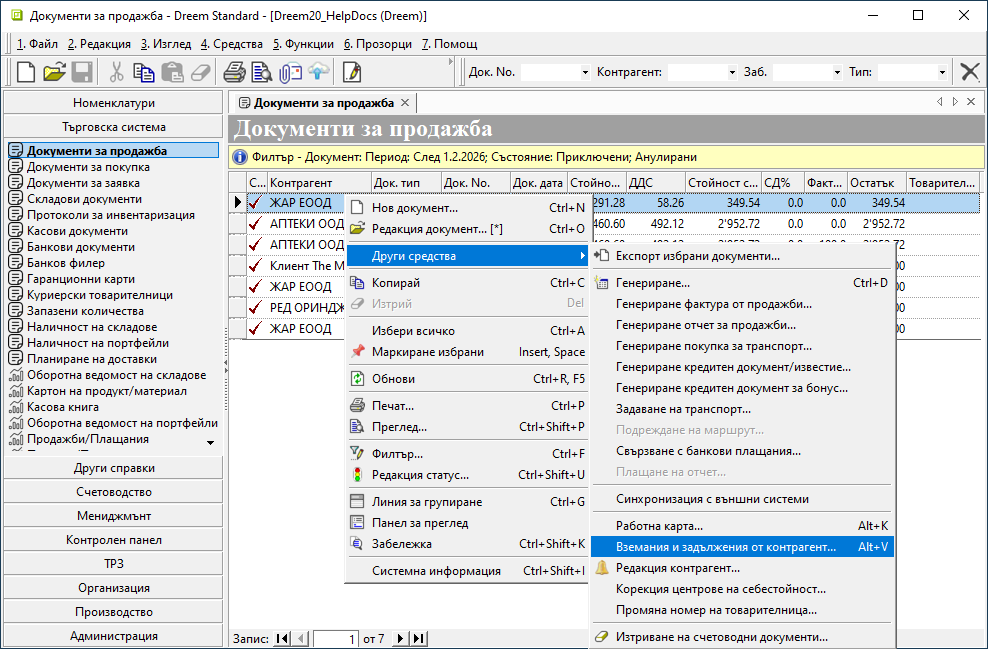
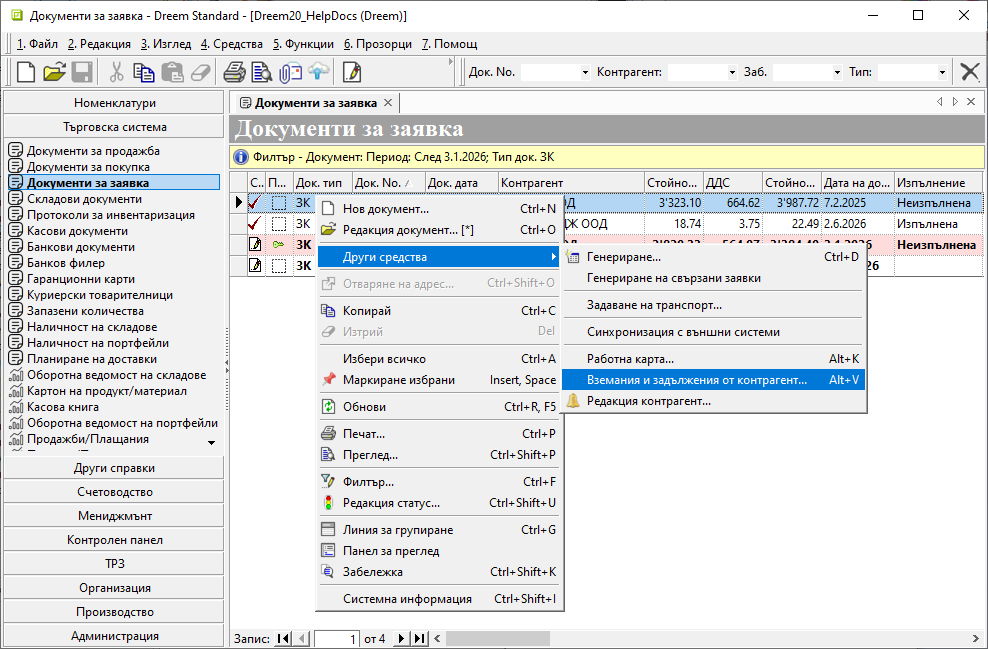
Допълване на теми след промени в Dreem

Changed region(s): [[0.0, 0.1541, 1.0, 1.0], [0.0911, 0.0, 0.4555, 0.0308], [0.2126, 0.5547, 0.2429, 0.5855]]

diff --git a/guide/erp/001-ref/001-nomenclatures/002-contragents.md b/guide/erp/001-ref/001-nomenclatures/002-contragents.md
@@ -215,17 +215,15 @@
     **Забележка** – поле за свободно въвеждане на текст - коментар, допълнителни особености и пр.;  
 
 3) В раздел **Списъци**:  
+
+    Секция **Списъци**  
     - **Адреси на доставка** - въвеждат се адреси на доставка, които след това може да се обвържат с обекти;  
     - **Банкови сметки** - списък с банкови сметки, предоставени от контрагента;  
     - **Обекти** - списък с всички обекти на контрагента, с които ще се работи;  
     За всеки обект могат да бъдат настроени индивидуална ценова листа и/или схема с търговска отстъпка.  
     - **Доставни цени** - настройката се отнася до контрагенти, които се явяват доставчици за *Потребител на продукта*;  
     Включва списък с информация за всички доставяни от текущия контрагент продукти - код, баркод, ценова листа, наименование, мярка, цена, валута и др.  
-    Системата актуализира списъка автоматично след всяка валидирана покупка. Възможно е и ръчно коригиране на данните.  
-    - **Кодове на Потребител на продукта в ИС на контрагенти** - чрез настройката се указва код за идентификация на потребителя на продукта в информационни системи на партньори;  
-    Настройката е активна за контрагент тип **Потребител на продукта**.  
-    - **Вендор кодове на продукти** - използва се, когато този контрагент изисква видимост на собствени кодове при печат на документи;  
-    - **Вендор кодове на контрагенти** - списък с контрагенти и идентификационните им кодове;    
+    Системата актуализира списъка автоматично след всяка валидирана покупка. Възможно е и ръчно коригиране на данните.     
     - **Бонус точки** - списък с натрупани бонус точки по дати и програми за лоялност;  
     Системата актуализира списъка автоматично. Допуска се също коригиране на данните ръчно.  
     - **Мин/Макс количества** - настройват се минимално и максимално допустимите количества за текущия склад. Използва се при генерация на заявки за дозареждане на склад.  
@@ -235,5 +233,10 @@
     - **Складови локации** - списък с всички складови локации в текущия склад;  
     Настройката се използва за контрагенти от тип *Склад*.  
     
+    Секция **Вендор кодове**  
+    - **Продукти** - указва кодове за идентификация на продукти в информационните системи на текущия контрагент;  
+    - **Контрагенти** - списък с кодове за идентификация на контрагенти в информационната система на текущия контрагент;  
+    - **Обекти** - указва кодове за идентификация на обекти в системата на текущия контрагент;  
+
 В секции **Търговска система**, **Счетоводна система** и **Организация** са достъпни всички документи, генерирани с избрания контрагент.  
  

diff --git a/guide/erp/004-tips/017-accounts-rec-payable.md b/guide/erp/004-tips/017-accounts-rec-payable.md
@@ -4,22 +4,22 @@
 
 # **Бърза справка за контрагент**
 
-В системата може да бъде показана кратка справка с вземания и задължения на контрагент. Тя е достъпна от **Търговска система** при документи за продажба, покупка и заявка.  
+В системата може да бъде показана кратка справка с вземания и задължения на контрагент. Тя е достъпна от **Търговска система** за документите за продажба, покупка и заявка.  
+Формата с информация за избран контрагент можете да отворите от:  
 
-- **От списък с документи**  
+- **Списък с документи**  
 
 За да отворите справката от списъка с документи, маркирайте запис с избрания контрагент. С десен клик изберете **Други средства » Вземания и задължения от контрагент**.  
 
 ![](917-accounts-rec-payable1.png){ class=align-center w=15cm }
 
-- **От форма за редакция на документ**  
+- **Форма за редакция на документ**  
 
 Отворете документ на избрания контрагент.  
 В меню **Средства** изберете **Вземания и задължения от контрагент**.  
 
 ![](917-accounts-rec-payable2.png){ class=align-center w=15cm }
-
-Системата отваря форма **Информация за контрагент** и в двата случая.  
-Представената справка съдържа данни с вземанията и задълженията на контрагента. Това включва неплатени остатъци по вътрешнофирмени и данъчни документи, каква част от тях са редовни и просрочени, дата и сума на последно плащане и други.   
+ 
+Справката съдържа данни с вземанията и задълженията на контрагента, представени по обекти. Това включва неплатени остатъци по вътрешнофирмени и данъчни документи, каква част от тях са редовни и просрочени, дата и сума на последно плащане и други.   
 
 ![](917-accounts-rec-payable3.png){ class=align-center }
